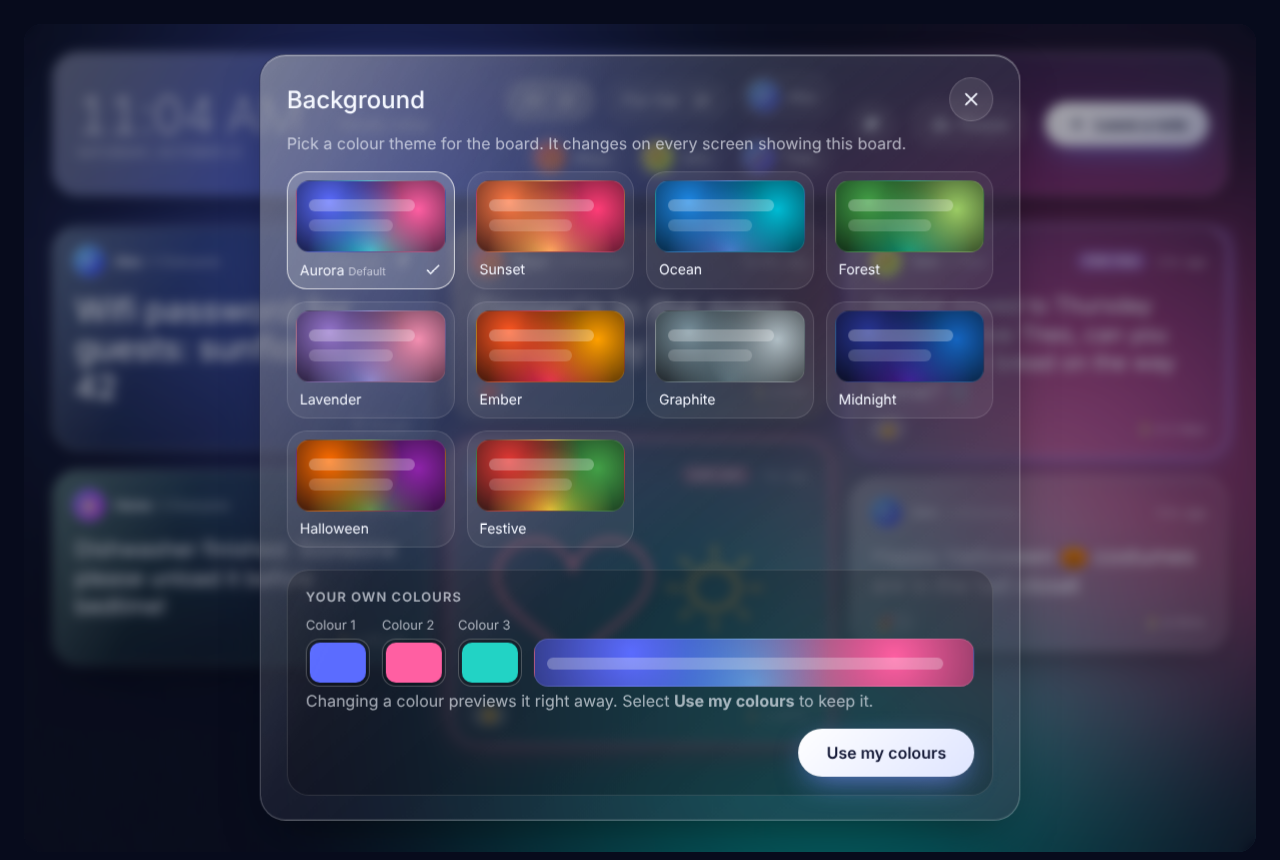
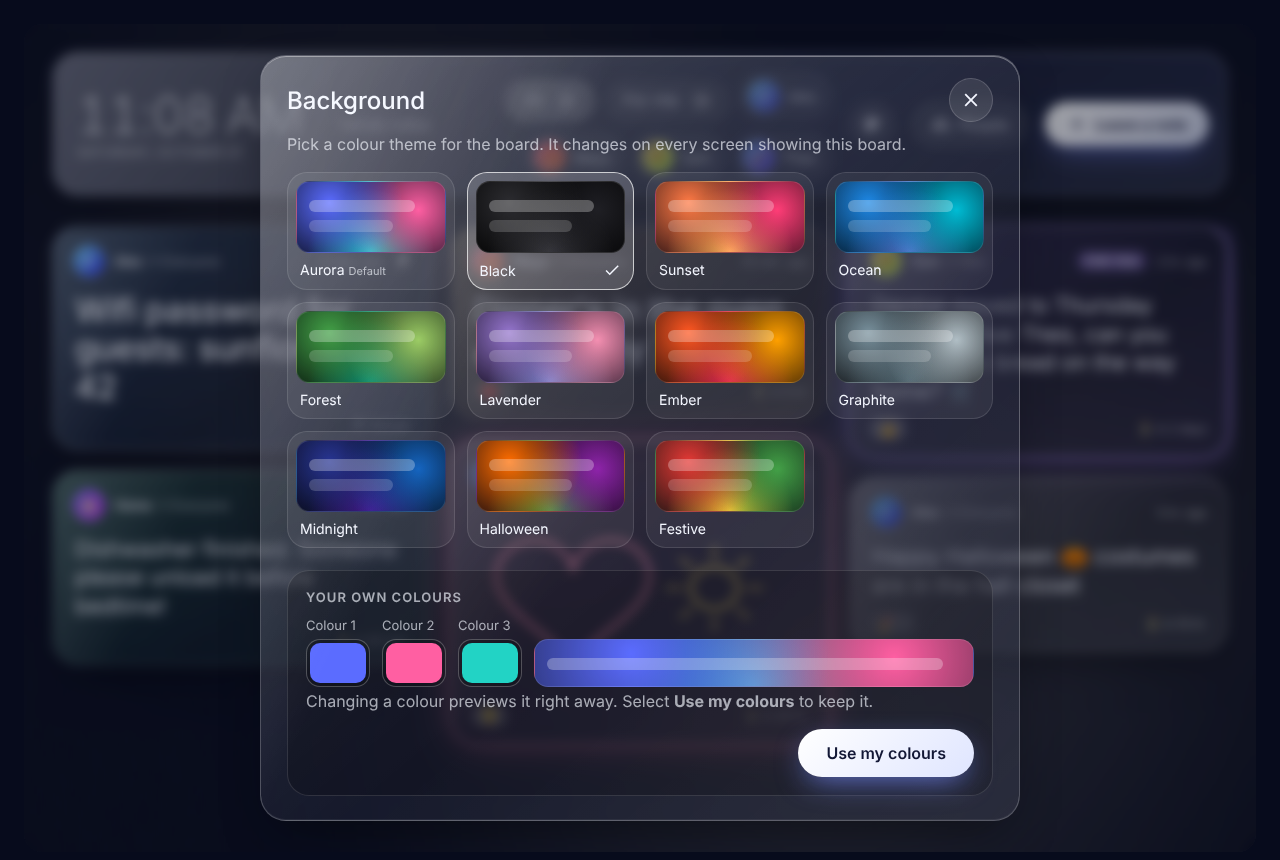
Add a Black background preset
True black base with faint charcoal glows so the glass panels keep
their depth. Included in the unreleased 1.2.0.

Claude-Session: https://claude.ai/code/session_01Y9wXQ2LeToPbE8CH1NYyZ6

diff --git a/custom_components/glass_messages/frontend/glass-message-board.js b/custom_components/glass_messages/frontend/glass-message-board.js
@@ -34,6 +34,7 @@
   // Background themes: base colour plus three glow colours. Aurora is the default.
   const BACKGROUNDS = {
     aurora: { name: "Aurora", base: "#070b1c", colors: ["#5b6cff", "#ff5fa2", "#22d3c5"] },
+    black: { name: "Black", base: "#000000", colors: ["#2c2c30", "#1f1f24", "#3a3a40"] },
     sunset: { name: "Sunset", base: "#1a0a10", colors: ["#ff7a45", "#ff3d77", "#ffc15e"] },
     ocean: { name: "Ocean", base: "#021321", colors: ["#1e88e5", "#00bcd4", "#5c6bc0"] },
     forest: { name: "Forest", base: "#06130c", colors: ["#43a047", "#9ccc65", "#00897b"] },

diff --git a/custom_components/glass_messages/const.py b/custom_components/glass_messages/const.py
@@ -31,6 +31,7 @@ TINTS = ["clear", "rose", "amber", "mint", "sky", "violet"]
 # Background colour themes. The card holds the actual colours for each preset.
 BACKGROUND_PRESETS = [
     "aurora",
+    "black",
     "sunset",
     "ocean",
     "forest",

diff --git a/README.md b/README.md
@@ -40,7 +40,7 @@ Glass Message Board turns a wall-mounted tablet into a shared space for househol
 | **Write, dictate or draw** | Touch-optimized text input with quick emoji, browser-based voice dictation, and a handwriting pad with six ink colors, three pen sizes and undo. |
 | **Pinning and expiry** | Notes can last 1 hour, until tonight, 1 day, 1 week, or indefinitely. Pinned notes never expire and always appear first. |
 | **Reactions and replies** | Open any note to react, reply to the sender, pin it or delete it. |
-| **Background themes** | Ten colour presets, including seasonal ones, plus your own three-colour mix. Changes apply to every screen at once. |
+| **Background themes** | Eleven colour presets, including seasonal ones, plus your own three-colour mix. Changes apply to every screen at once. |
 | **Ambient mode** | After a configurable idle period, the board shows a large clock and a rotating spotlight of notes, prioritizing those for the current user. |
 | **Automation support** | Actions, a new-message event and per-person sensors let automations post notes and respond to them. |
 | **Mobile notifications** | Pick a person's phone on the People screen and they get a push notification when a note is left for them. |
@@ -194,7 +194,7 @@ If someone isn't on the board yet, select **Add name** in step 2 or 3 and type t
 
 <p align="center"><img src="docs/images/backgrounds.png" alt="The background picker" width="70%"></p>
 
-Available presets: Aurora, Sunset, Ocean, Forest, Lavender, Ember, Graphite, Midnight, Halloween and Festive.
+Available presets: Aurora, Black, Sunset, Ocean, Forest, Lavender, Ember, Graphite, Midnight, Halloween and Festive.
 
 ### What happens automatically
 

diff --git a/CHANGELOG.md b/CHANGELOG.md
@@ -6,7 +6,7 @@ All notable changes to this project are documented in this file.
 
 ### Added
 
-- **Background themes:** a palette button opens a picker with ten presets (Aurora, Sunset, Ocean, Forest, Lavender, Ember, Graphite, Midnight, Halloween and Festive) and a custom three-colour option with live preview.
+- **Background themes:** a palette button opens a picker with eleven presets (Aurora, Black, Sunset, Ocean, Forest, Lavender, Ember, Graphite, Midnight, Halloween and Festive) and a custom three-colour option with live preview.
 - The chosen background is saved centrally, so every screen showing the board changes together.
 - New action `glass_messages.set_background` for switching themes from automations.
 
